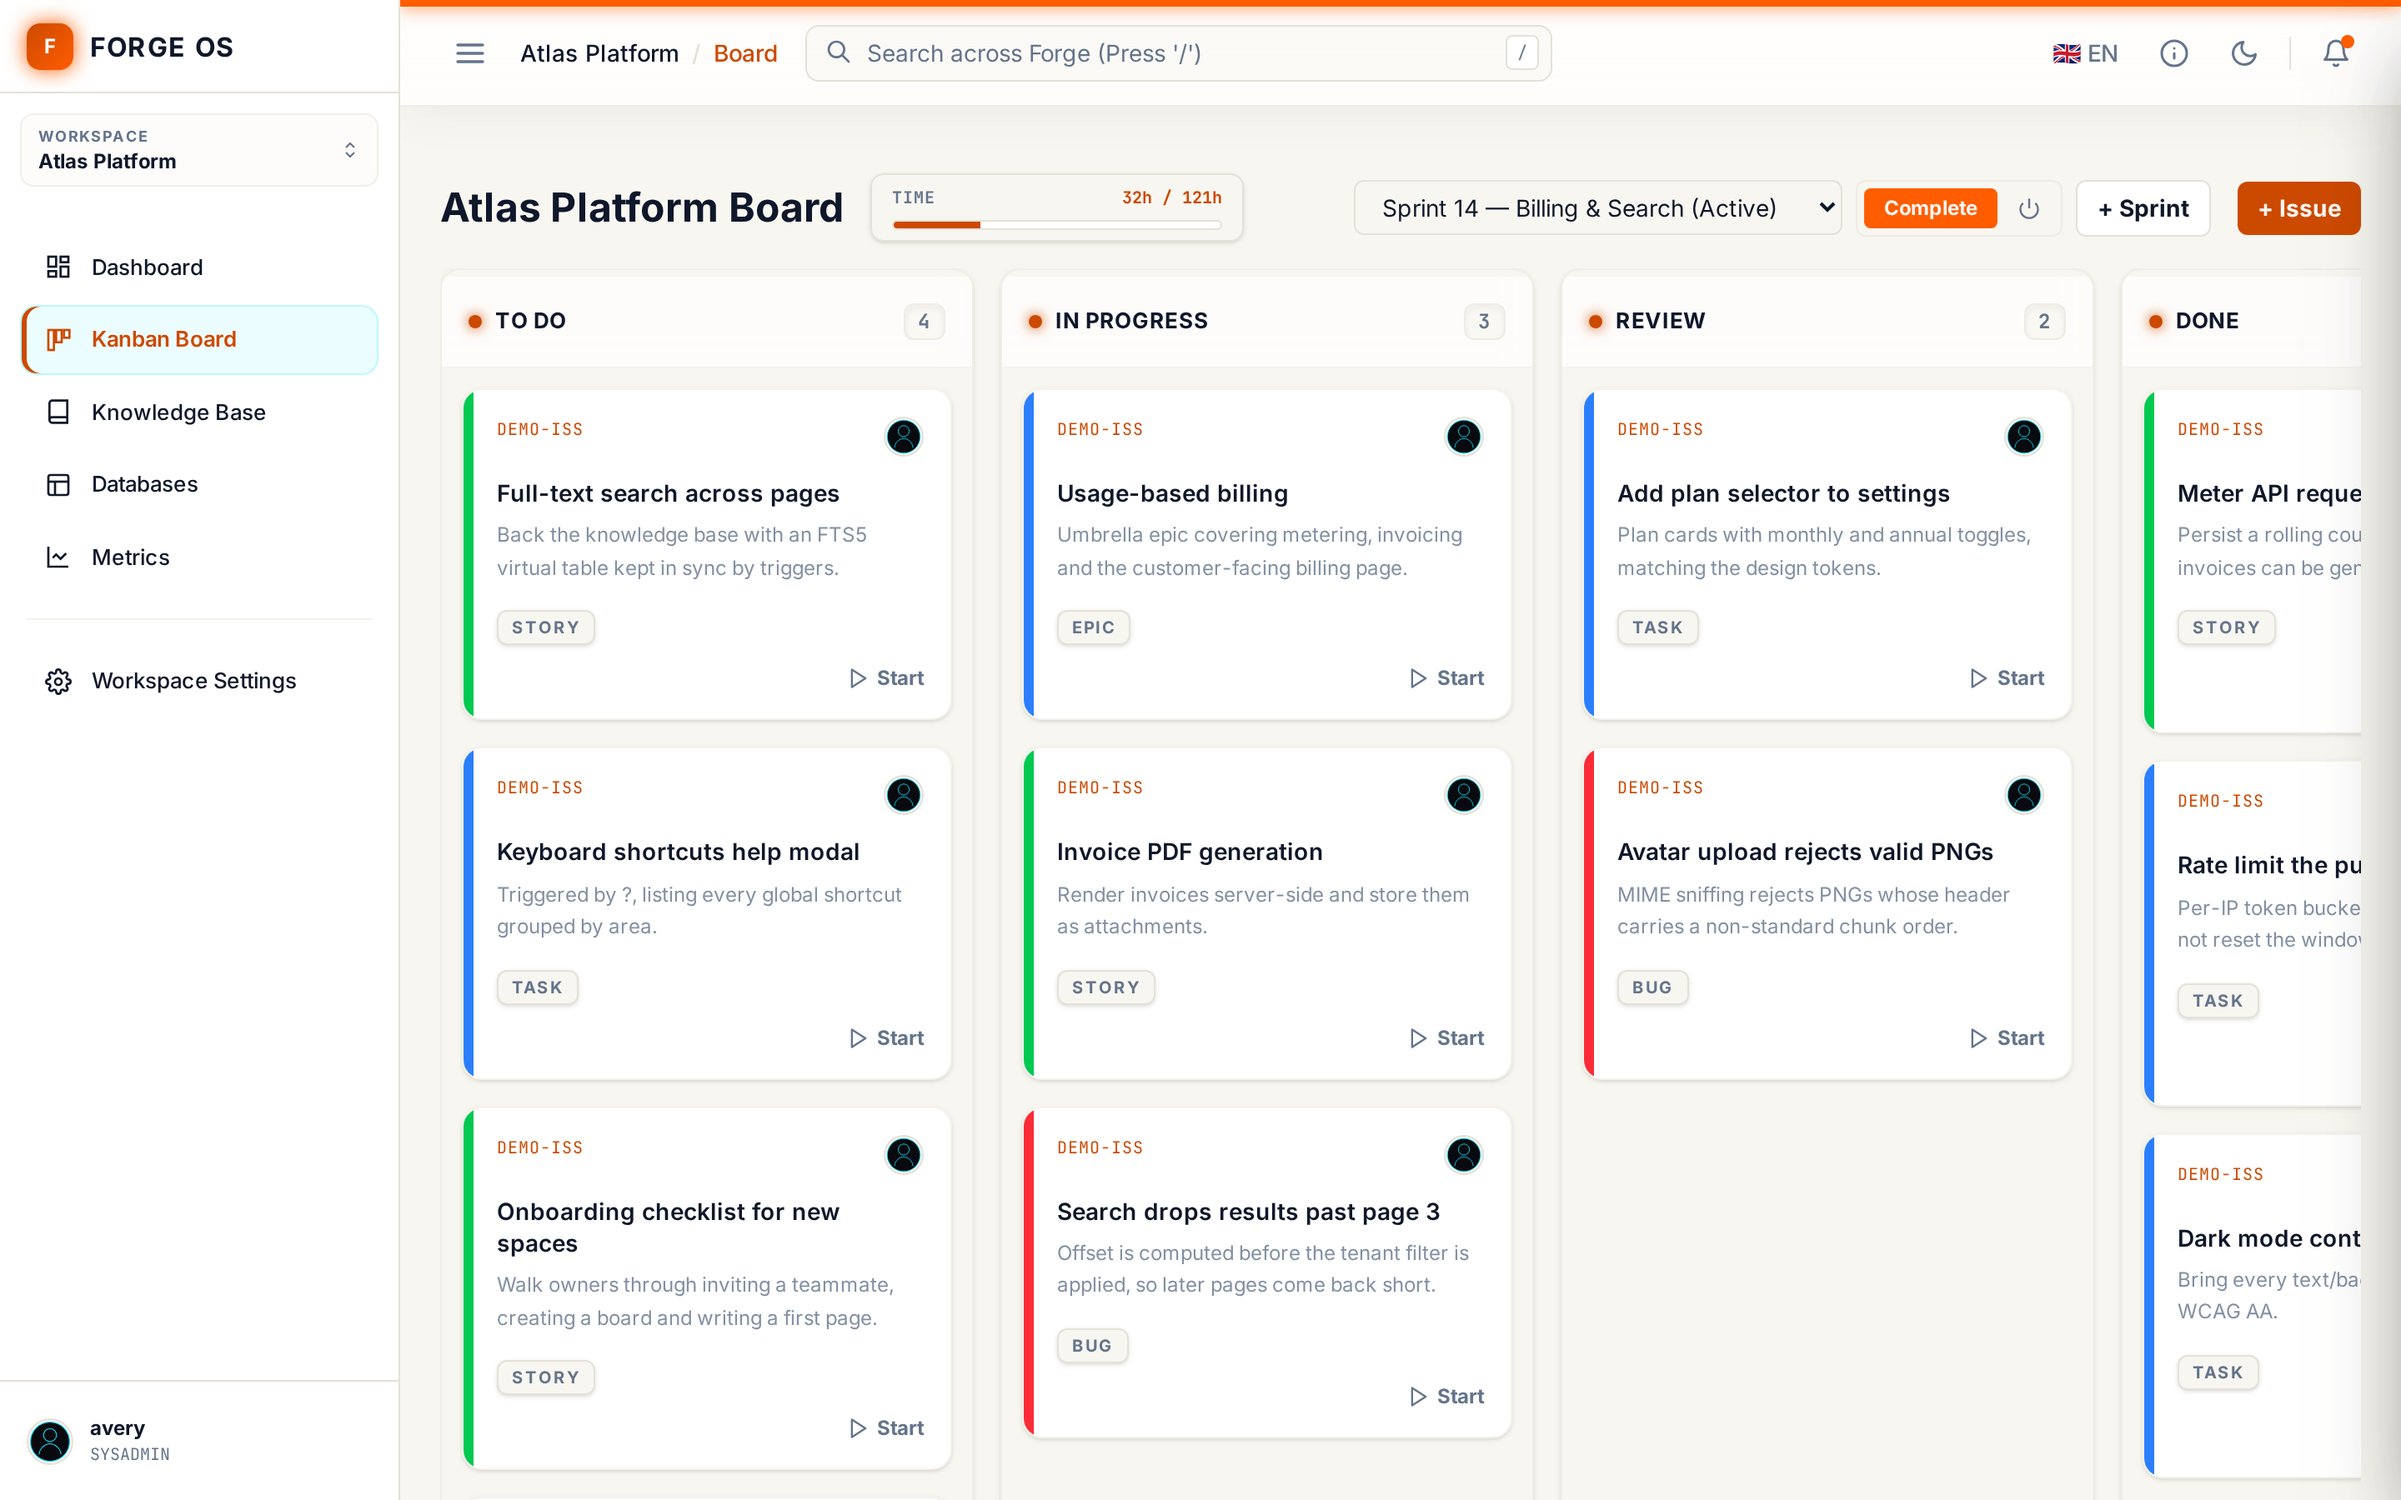
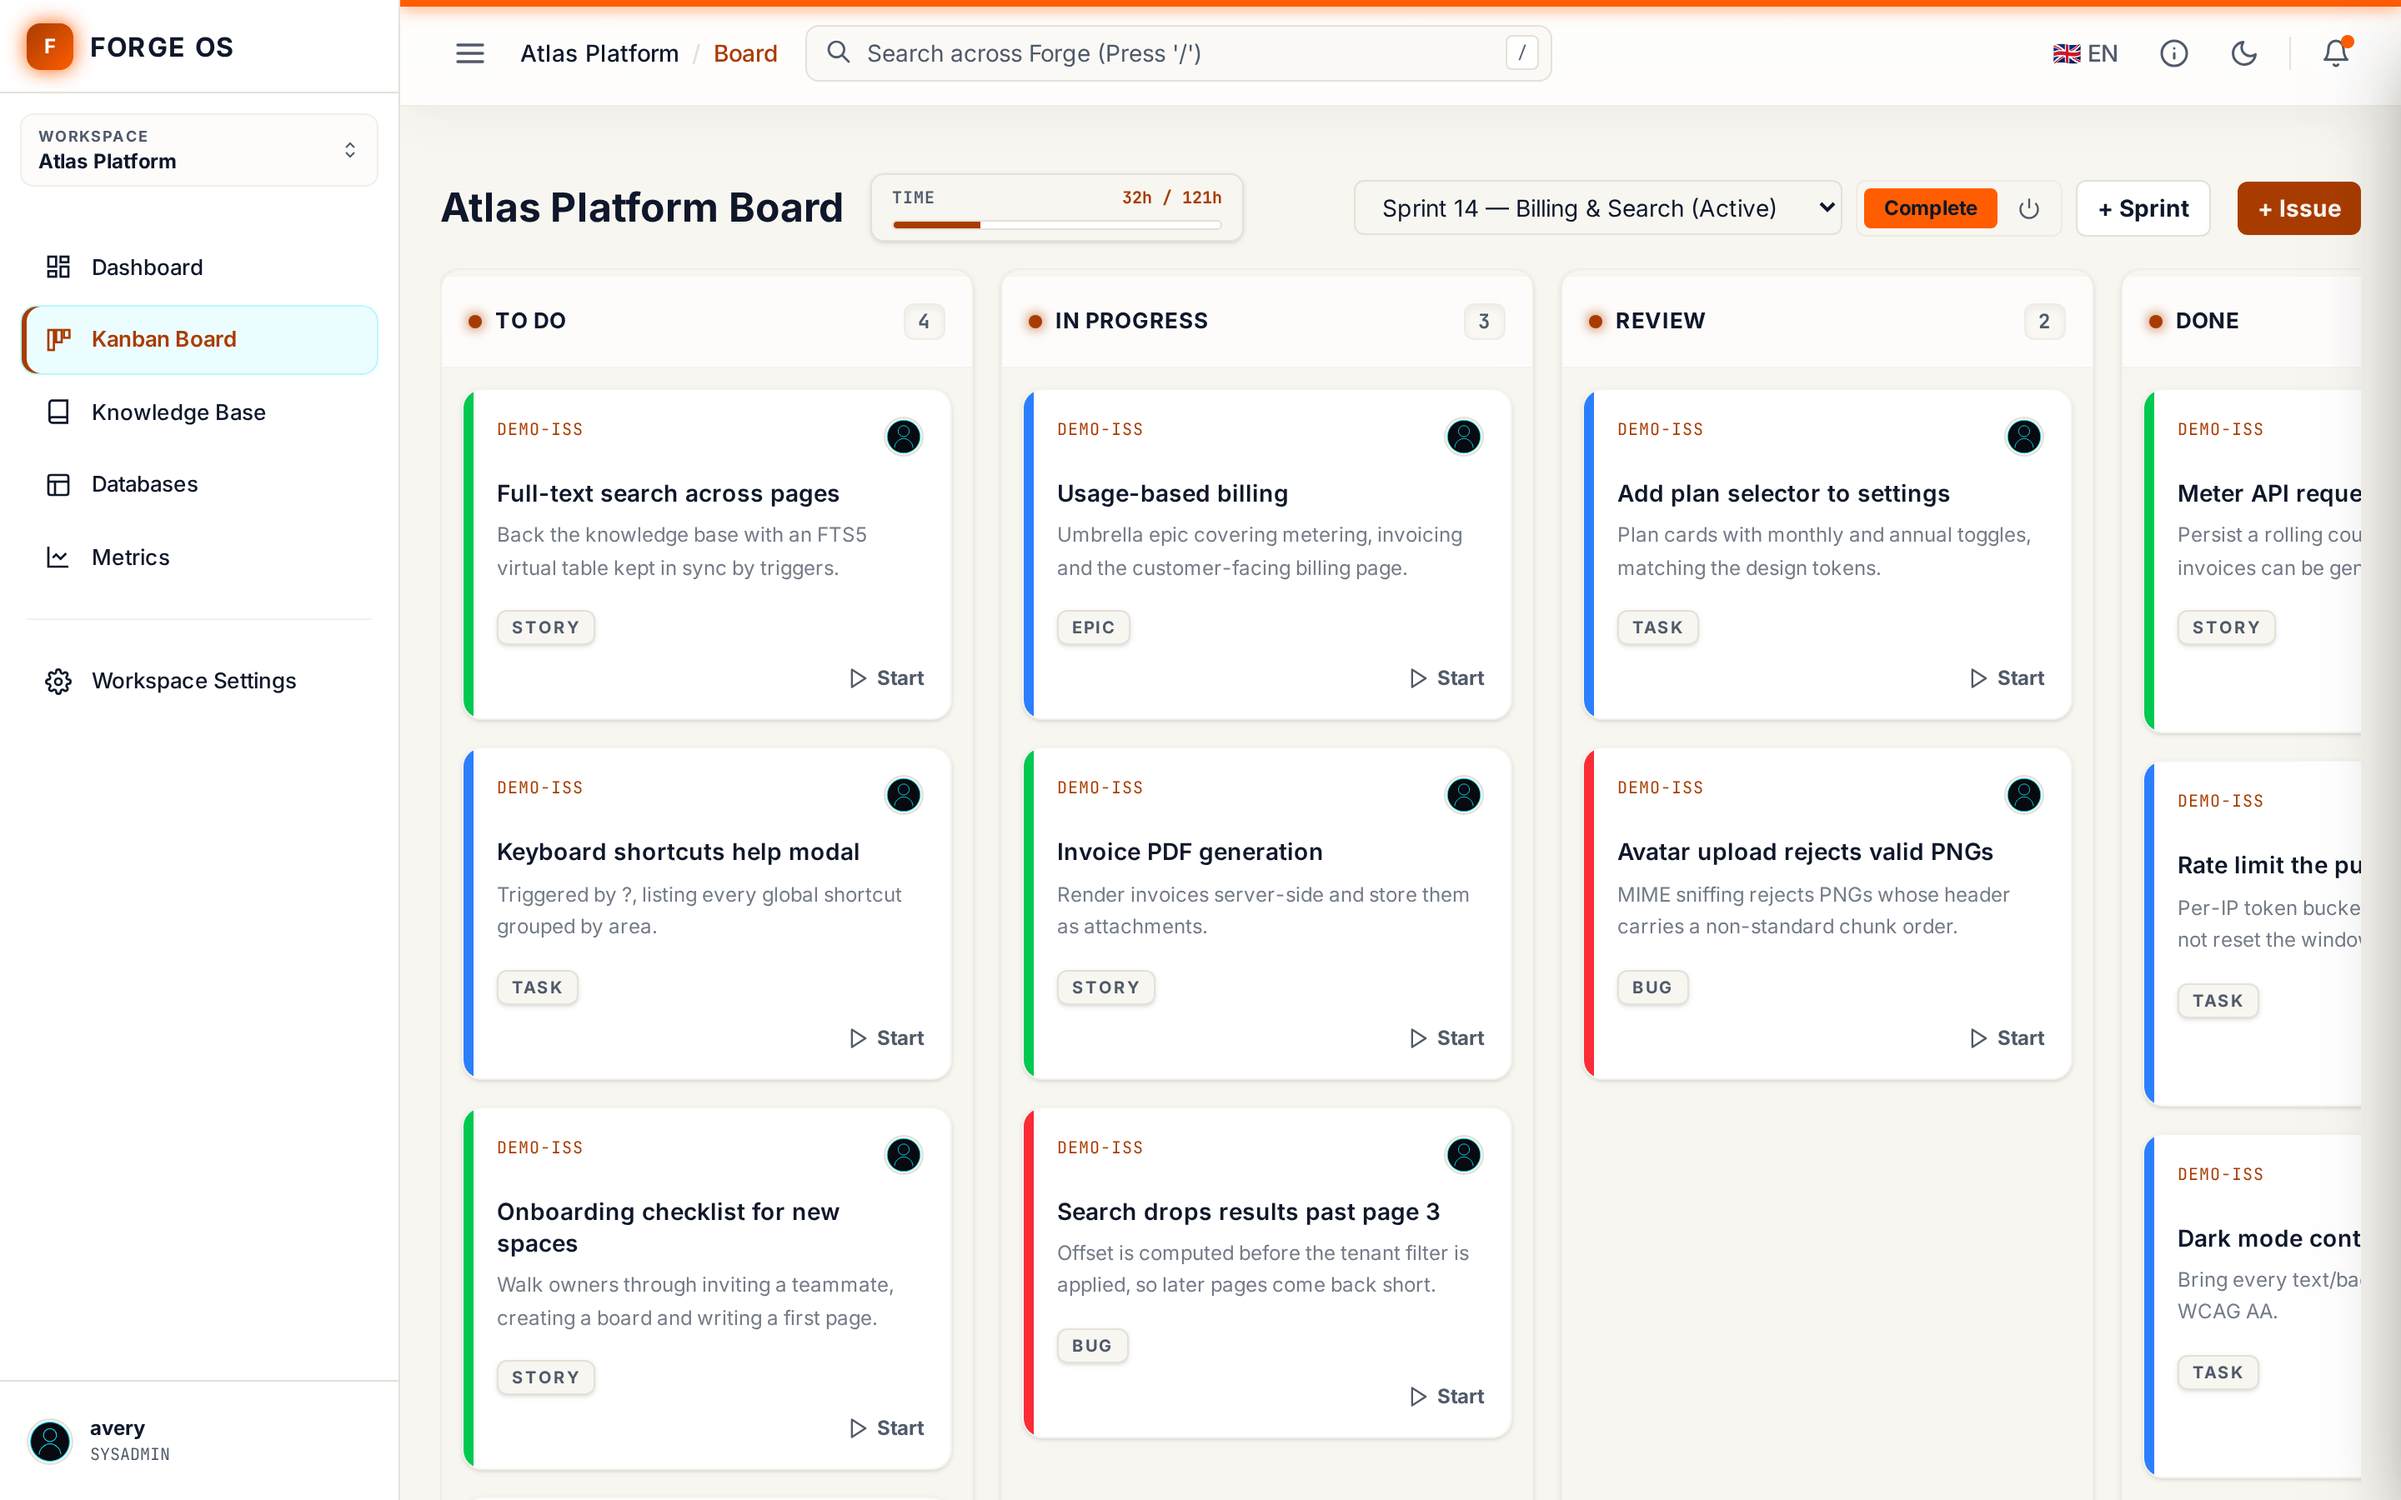
fix(a11y): resolve every WCAG AA contrast failure in both themes
Measured 24 unique contrast failures across the hub, board, knowledge
base, metrics, settings and profile pages, in both themes. Down to zero.

The worst was the knowledge base at **1.11:1** — near-black text on the
near-black background, effectively invisible. Root cause was not the code
styling: the editor uses `prose dark:prose-invert`, but Tailwind resolves
`dark:` from prefers-color-scheme while this app switches themes with
`[data-theme]`. Setting the app to dark with the OS in light mode meant
prose-invert never applied. A @custom-variant now binds `dark:` to the
app's own theme. Only one `dark:` utility exists in the codebase, so the
change is contained.

Token fixes, each computed rather than eyeballed:

- light --forge-muted #64748B → #4F5A6A (4.40 → 6.47:1)
- light --forge-accent-secondary #CC4A00 → #A83C00 (4.27 → 5.14:1)
- light --forge-info #0284C7 → #01527E, --forge-error → #C41C1C
- dark --forge-info #3B82F6 → #6BA6FF (3.87:1 on its own tinted chip)

Two systemic patterns, not one-off colours:

- 35 uses of `text-forge-muted/<n>`. Fading an already-calibrated token
  built the visual hierarchy out of inaccessible colours: at /70 the
  light theme dropped to 2.95:1. The opacity modifiers are gone; the
  token carries the contrast.
- `bg-forge-primary text-forge-bg` inverts with the theme while the
  orange does not, so light theme rendered light text on orange at
  2.85:1. New --forge-on-accent token, always dark, 5.80:1.
[…]

diff --git a/src/styles/themes.css b/src/styles/themes.css
@@ -2,6 +2,14 @@
 @import 'tailwindcss';
 @plugin '@tailwindcss/typography';
 
+/* La variante `dark:` debe seguir al tema de la app, no al del sistema
+   operativo.
+   Por defecto Tailwind la resuelve con `prefers-color-scheme`, así que
+   `dark:prose-invert` en el editor no se activaba al poner la app en oscuro si
+   el SO estaba en claro: el contenido se renderizaba con los colores de prose
+   claros sobre fondo oscuro y el `<code>` quedaba a 1.11:1, ilegible. */
+@custom-variant dark (&:where([data-theme='dark'], [data-theme='dark'] *));
+
 @theme {
   --color-forge-bg: var(--forge-bg);
   --color-forge-panel: var(--forge-panel);
@@ -17,6 +25,10 @@
   --color-forge-error: var(--forge-error);
   --color-forge-warning: var(--forge-warning);
   --color-forge-info: var(--forge-info);
+  /* Texto sobre fondos del color de acento. El naranja es el mismo en ambos
+     temas, así que este token NO se invierte: usar `text-forge-bg` daba texto
+     claro sobre naranja en tema claro (2.85:1). */
+  --color-forge-on-accent: var(--forge-on-accent);
 
   /* Typography & Structure */
   --color-forge-border: var(--forge-border);
@@ -41,7 +53,8 @@
     --forge-success: #10B981;
     --forge-error: #EF4444;
     --forge-warning: #F59E0B;
-    --forge-info: #3B82F6;
+    --forge-info: #6BA6FF;
+    --forge-on-accent: #0F172A;
   }
   
   [data-theme="dark"] { 
@@ -59,7 +72,7 @@
     --forge-success: #10B981;
     --forge-error: #EF4444;
     --forge-warning: #F59E0B;
-    --forge-info: #3B82F6;
+    --forge-info: #6BA6FF;
   }
 
   [data-theme="light"] {
@@ -67,17 +80,24 @@
     --forge-bg: #F8F6F0;
     --forge-panel: #FFFFFF;
     --forge-text: #0F172A;
-    --forge-muted: #64748B;
+    /* #64748B daba 4.40:1 sobre el fondo: justo por debajo del 4.5:1 que pide
+       WCAG AA. #5A6678 sube a 5.39:1 sobre el fondo y 5.82:1 sobre panel
+       blanco, con margen para que los modificadores de opacidad no lo hundan. */
+    --forge-muted: #4F5A6A;
     --forge-border: #E5E1D8;
-    
+
     --forge-accent-primary: #FF5D00;
     --forge-accent-primary-hover: #E05200;
-    --forge-accent-secondary: #CC4A00;
+    /* #CC4A00 daba 4.27:1 sobre el fondo claro. #B84200 llega a 5.09:1 y sigue
+       pasando como fondo de botón con texto claro encima. */
+    --forge-accent-secondary: #A83C00;
 
-    --forge-success: #059669;
-    --forge-error: #DC2626;
-    --forge-warning: #D97706;
-    --forge-info: #0284C7;
+    --forge-success: #047857;
+    --forge-error: #C41C1C;
+    --forge-warning: #B45309;
+    /* #0284C7 daba 4.10:1 sobre panel blanco. #0369A1 sube a 5.93:1. */
+    --forge-info: #01527E;
+    --forge-on-accent: #0F172A;
   }
   
   body { 
@@ -101,3 +121,29 @@
   }
 }
 
+
+/* ── Base global ─────────────────────────────────────────────────────────────
+   Estas reglas vivían en src/styles/global.css, que no importaba nadie: el
+   único punto de entrada es este fichero. Es decir, la app se quedó sin
+   indicadores de foco por teclado, y `.custom-scrollbar` —usada en cuatro
+   componentes— no hacía nada. Aquí sí se aplican.
+
+   No se traen los `:root` de aquel fichero: definían otros valores de color
+   (#0f111a frente a #0D0B0A) que habrían pisado los temas de arriba. */
+@layer base {
+  a:focus-visible,
+  button:focus-visible,
+  input:focus-visible,
+  select:focus-visible,
+  textarea:focus-visible,
+  [tabindex]:focus-visible {
+    outline: 2px solid var(--forge-accent-secondary);
+    outline-offset: 2px;
+    border-radius: 4px;
+  }
+
+  .custom-scrollbar::-webkit-scrollbar { width: 6px; height: 6px; }
+  .custom-scrollbar::-webkit-scrollbar-track { background: transparent; }
+  .custom-scrollbar::-webkit-scrollbar-thumb { background: var(--forge-border); border-radius: 4px; }
+  .custom-scrollbar::-webkit-scrollbar-thumb:hover { background: var(--forge-muted); }
+}
